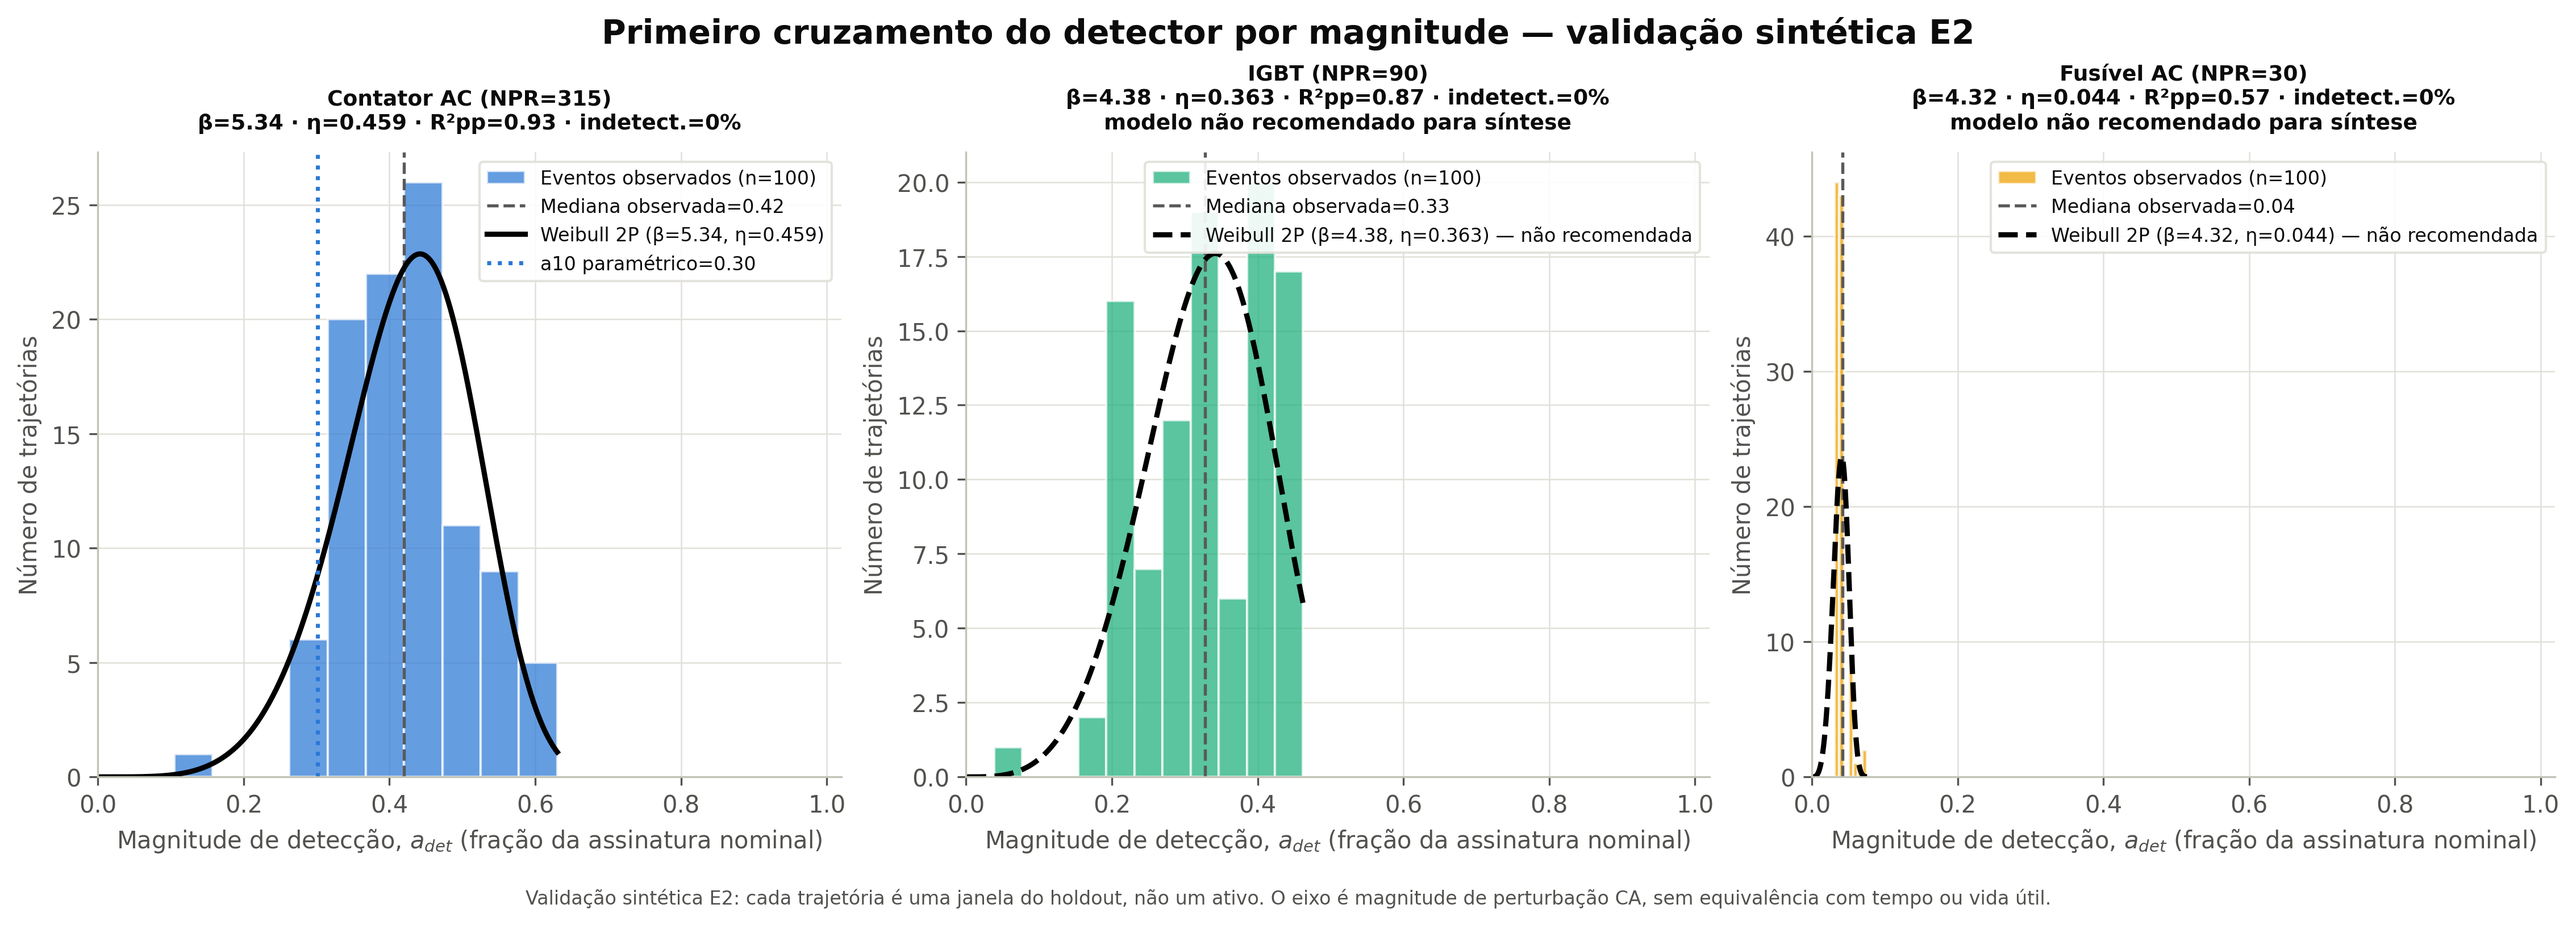
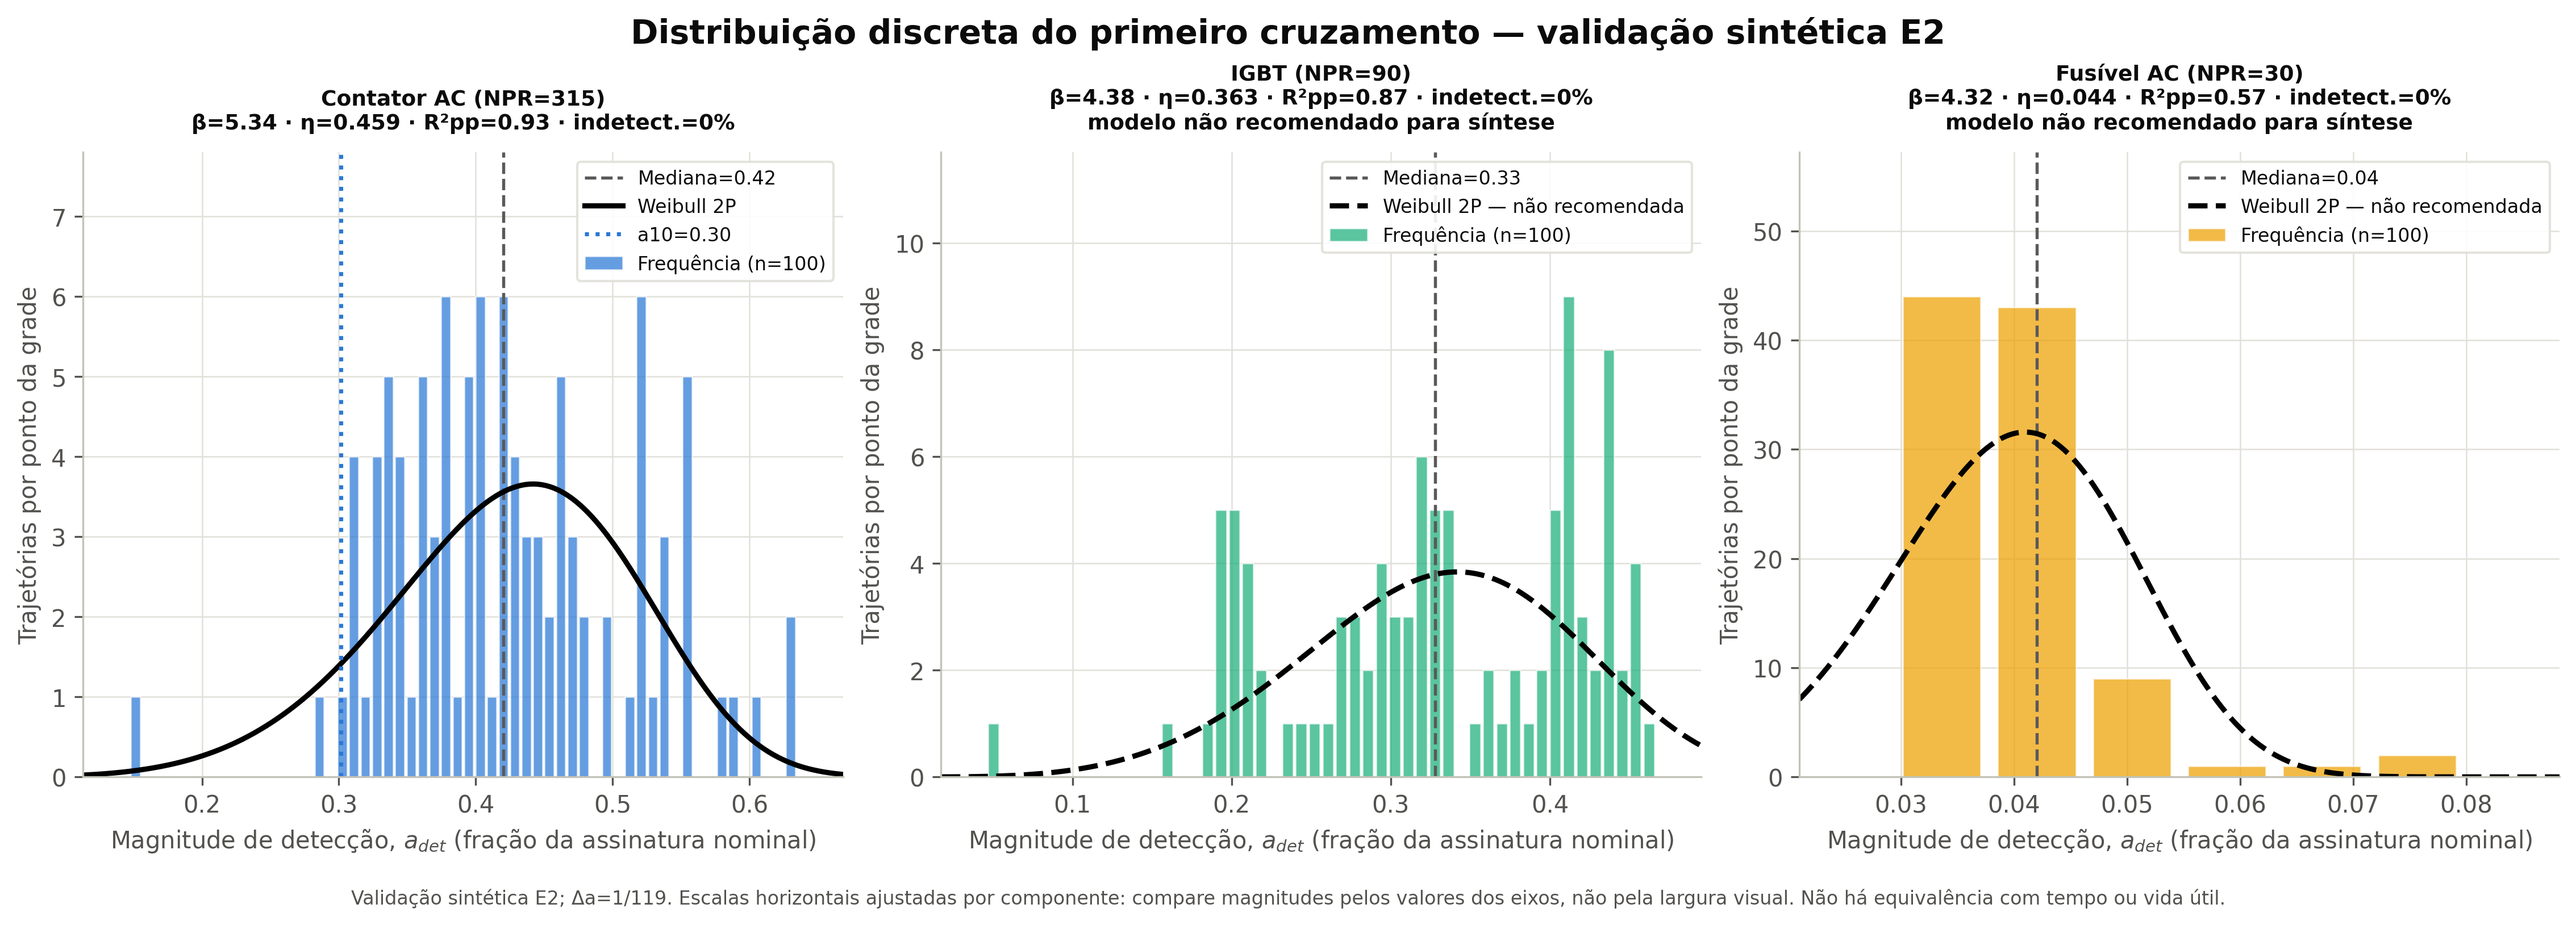
fix: melhora leitura do primeiro cruzamento E2

diff --git a/src/ml/graficos_rul.py b/src/ml/graficos_rul.py
@@ -18,6 +18,7 @@ from src.ml.rul_weibull import (
     COR_ALERTA,
     COR_TEXTO_SEC,
     FALHAS,
+    N_STEPS,
     TAM,
     Path,
     _log,
@@ -75,16 +76,40 @@ def _rotulo_posicoes_empiricas(eventos: np.ndarray) -> str:
     return f"posição empírica (n={n_total}; sem indetectabilidade)"
 
 
+def _limites_eixo_magnitude(valores: np.ndarray) -> tuple[float, float]:
+    """Enquadra cada componente sem esconder a unidade comum ``a_det``.
+
+    Os painéis são pequenos múltiplos de distribuições com escalas muito
+    diferentes. O Fusível ocupa menos de 5% do domínio nominal; fixar todos os
+    eixos em [0, 1] reduz seus seis valores observados a uma linha no canto.
+    """
+    valores = np.asarray(valores, dtype=float)
+    valores = valores[np.isfinite(valores)]
+    if not valores.size:
+        return 0.0, 1.0
+
+    minimo = float(valores.min())
+    maximo = float(valores.max())
+    passo_grade = 1.0 / (N_STEPS - 1)
+    amplitude = max(maximo - minimo, 2.0 * passo_grade)
+    margem = max(1.5 * passo_grade, 0.08 * amplitude)
+    limite_inferior = max(0.0, minimo - margem)
+    limite_superior = min(1.0, maximo + margem)
+    if np.isclose(maximo, 1.0):
+        limite_superior = 1.01
+    return limite_inferior, limite_superior
+
+
 def plotar_ttf_histogramas(
     ttfs_dict: dict, eventos_dict: dict, params: dict, pasta: Path
 ):
-    """a_det detectados e indetectáveis no teto, com ajuste Weibull."""
+    """Frequência discreta de a_det e ajuste Weibull por componente."""
     n_falhas = len(FALHAS)
     fig, axes = plt.subplots(
         1, n_falhas, figsize=TAM["painel_3"], layout="constrained"
     )
     fig.suptitle(
-        "Primeiro cruzamento do detector por magnitude — validação sintética E2"
+        "Distribuição discreta do primeiro cruzamento — validação sintética E2"
     )
 
     for ax, falha in zip(axes, FALHAS):
@@ -97,54 +122,48 @@ def plotar_ttf_histogramas(
         nao_detectados = ttfs[~eventos]
 
         horizonte = float(max(ttfs))
-        # Menos eventos, menos bins: com 9 eventos em 12 bins o histograma vira
-        # código de barras e sugere ausência de estrutura onde só falta amostra.
-        n_bins = int(min(13, max(5, len(observados) // 2 + 1)))
-        bins = np.linspace(0.0, horizonte, n_bins)
-        MIN_EVENTOS_HIST = 5
-        if len(observados) >= MIN_EVENTOS_HIST:
-            ax.hist(
-                observados, bins=bins, density=False, alpha=0.72,
-                color=falha["cor"], edgecolor="white",
-                label=f"Eventos observados (n={len(observados)})",
+        limite_x = _limites_eixo_magnitude(ttfs)
+        passo_grade = 1.0 / (N_STEPS - 1)
+        altura_maxima = 0.0
+        if len(observados):
+            magnitudes, contagens = np.unique(observados, return_counts=True)
+            altura_maxima = float(contagens.max())
+            ax.bar(
+                magnitudes, contagens, width=0.82 * passo_grade,
+                alpha=0.72, color=falha["cor"], edgecolor="white",
+                linewidth=0.6,
+                label=f"Frequência (n={len(observados)})",
             )
-        elif len(observados):
-            # Pouquíssimos eventos: uma barra solitária parece defeito e engana.
-            # Mostra um aviso claro de amostra insuficiente (mantendo as linhas
-            # de mediana/censura) em vez de um histograma degenerado.
-            ax.set_ylim(0, 1)
+        else:
             ax.text(
-                0.5, 0.6,
-                f"amostra insuficiente\npara histograma (n={len(observados)})",
+                0.5, 0.55, "nenhuma detecção na grade observada",
                 transform=ax.transAxes, ha="center", va="center",
-                fontsize=10, color=COR_TEXTO_SEC,
+                fontsize=9, color=COR_TEXTO_SEC,
             )
         if len(observados):
             ax.axvline(
                 float(np.median(observados)), color="0.35", linestyle="--",
                 linewidth=1.3,
-                label=f"Mediana observada={np.median(observados):.2f}",
+                label=f"Mediana={np.median(observados):.2f}",
             )
 
-        # Curva de Weibull ajustada SOBRE o histograma (quando estimável). A
-        # densidade f(t) integra 1 sobre TODAS as trajetórias; escala-se para a
-        # contagem multiplicando por (n_total × largura_do_bin). n_total inclui
-        # as não detectadas: só assim a curva bate com o histograma dos eventos
-        # observados (que é a fração de f(t) à esquerda do horizonte). Sob alta
-        # censura, a maior parte da massa fica à direita da censura — a curva
-        # baixa perto do histograma é o próprio sinal de que o ajuste extrapola.
+        # A densidade contínua é convertida em contagem esperada por ponto da
+        # grade: f_D(a) × n_total × Δa. Assim a curva e as barras discretas usam
+        # a mesma escala vertical sem depender de bins arbitrários.
         if p["fit_converged"] and len(observados):
-            largura_bin = float(bins[1] - bins[0])
-            # `t_grid` começa acima de zero: f(0) diverge quando β < 1, e
-            # plotar o infinito não informa nada.
-            t_grid = np.linspace(max(horizonte / 400.0, 1e-6), horizonte, 400)
+            inicio_curva = max(limite_x[0], 1e-6)
+            fim_curva = min(limite_x[1], 1.0)
+            t_grid = np.linspace(inicio_curva, fim_curva, 400)
             f_ajustada = densidade(t_grid, p["beta"], p["eta"])
-            escala = len(ttfs) * largura_bin
+            escala = len(ttfs) * passo_grade
+            altura_maxima = max(
+                altura_maxima, float(np.nanmax(f_ajustada * escala))
+            )
             recomendada = p.get("resumo_parametrico_recomendado", False)
             ax.plot(
                 t_grid, f_ajustada * escala, color="black", linewidth=2.2,
                 linestyle="-" if recomendada else "--",
-                label=(f"Weibull 2P (β={p['beta']:.2f}, η={p['eta']:.3f})"
+                label=("Weibull 2P"
                        + ("" if recomendada else " — não recomendada")),
             )
 
@@ -167,7 +186,7 @@ def plotar_ttf_histogramas(
                 and p["b10"] <= horizonte):
             ax.axvline(
                 p["b10"], color="#2a78d6", linestyle=":", linewidth=1.7,
-                label=f"a10 paramétrico={p['b10']:.2f}",
+                label=f"a10={p['b10']:.2f}",
             )
 
         npm_str = f"NPR={falha['npr']}"
@@ -191,14 +210,16 @@ def plotar_ttf_histogramas(
                       + "\nKaplan-Meier permanece válida")
         ax.set_title(f"{nome} ({npm_str})\n{ajuste}", fontsize=9)
         ax.set_xlabel("Magnitude de detecção, $a_{det}$ (fração da assinatura nominal)")
-        ax.set_ylabel("Número de trajetórias")
-        ax.set_xlim(0, 1.02)
-        ax.legend(fontsize=8)
+        ax.set_ylabel("Trajetórias por ponto da grade")
+        ax.set_xlim(*limite_x)
+        if altura_maxima > 0:
+            ax.set_ylim(0.0, altura_maxima * 1.30)
+        ax.legend(fontsize=8, loc="upper right")
 
     arq = pasta / "weibull_ttf.png"
     salvar_figura(
         fig, arq,
-        "Validação sintética E2: cada trajetória é uma janela do holdout, não um ativo. O eixo é magnitude de perturbação CA, sem equivalência com tempo ou vida útil.",
+        "Validação sintética E2; Δa=1/119. Escalas horizontais ajustadas por componente: compare magnitudes pelos valores dos eixos, não pela largura visual. Não há equivalência com tempo ou vida útil.",
     )
     _log(f"   📊 {arq.name}")
 

diff --git a/tests/test_eixo_a_det.py b/tests/test_eixo_a_det.py
@@ -171,6 +171,25 @@ def test_rotulo_empirico_quantifica_indetectabilidade_no_teto():
     assert "indetect. no teto=2" in rotulo
 
 
+def test_limites_adaptativos_dao_escala_legivel_ao_fusivel():
+    from src.ml.graficos_rul import _limites_eixo_magnitude
+
+    valores = np.array([0.0336, 0.0420, 0.0504, 0.0756])
+    minimo, maximo = _limites_eixo_magnitude(valores)
+
+    assert 0.0 <= minimo < valores.min()
+    assert valores.max() < maximo <= 1.0
+    assert maximo - minimo < 0.10
+
+
+def test_limites_adaptativos_preservam_o_teto_nominal():
+    from src.ml.graficos_rul import _limites_eixo_magnitude
+
+    minimo, maximo = _limites_eixo_magnitude(np.array([0.35, 0.50, 1.0]))
+    assert minimo < 0.35
+    assert maximo == pytest.approx(1.01)
+
+
 def test_histograma_marca_indetectabilidade_no_teto(tmp_path, monkeypatch):
     import matplotlib.pyplot as plt
 
@@ -205,6 +224,40 @@ def test_histograma_marca_indetectabilidade_no_teto(tmp_path, monkeypatch):
     assert len(figuras) == 1
     labels = figuras[0].axes[0].get_legend_handles_labels()[1]
     assert any("Indetectáveis no teto" in label for label in labels)
+    plt.close(figuras[0])
+
+
+def test_grafico_usa_uma_barra_por_magnitude_da_grade(tmp_path, monkeypatch):
+    import matplotlib.pyplot as plt
+
+    from src.ml import graficos_rul
+
+    a = np.repeat(np.array([0.0336, 0.0420, 0.0504, 0.0756]), 5)
+    eventos = np.ones(len(a), dtype=bool)
+    parametros = ajustar_weibull(a, eventos, n_boot=0)
+    a_por_falha = {falha["id"]: a for falha in graficos_rul.FALHAS}
+    eventos_por_falha = {
+        falha["id"]: eventos for falha in graficos_rul.FALHAS
+    }
+    parametros_por_falha = {
+        falha["id"]: parametros for falha in graficos_rul.FALHAS
+    }
+    figuras = []
+
+    monkeypatch.setattr(
+        graficos_rul,
+        "salvar_figura",
+        lambda fig, _path, _rodape: figuras.append(fig),
+    )
+    monkeypatch.setattr(graficos_rul, "_log", lambda _mensagem: None)
+
+    graficos_rul.plotar_ttf_histogramas(
+        a_por_falha, eventos_por_falha, parametros_por_falha, tmp_path
+    )
+
+    eixo = figuras[0].axes[0]
+    assert len(eixo.patches) == len(np.unique(a))
+    assert eixo.get_xlim()[1] - eixo.get_xlim()[0] < 0.10
     plt.close(figuras[0])
 
 
